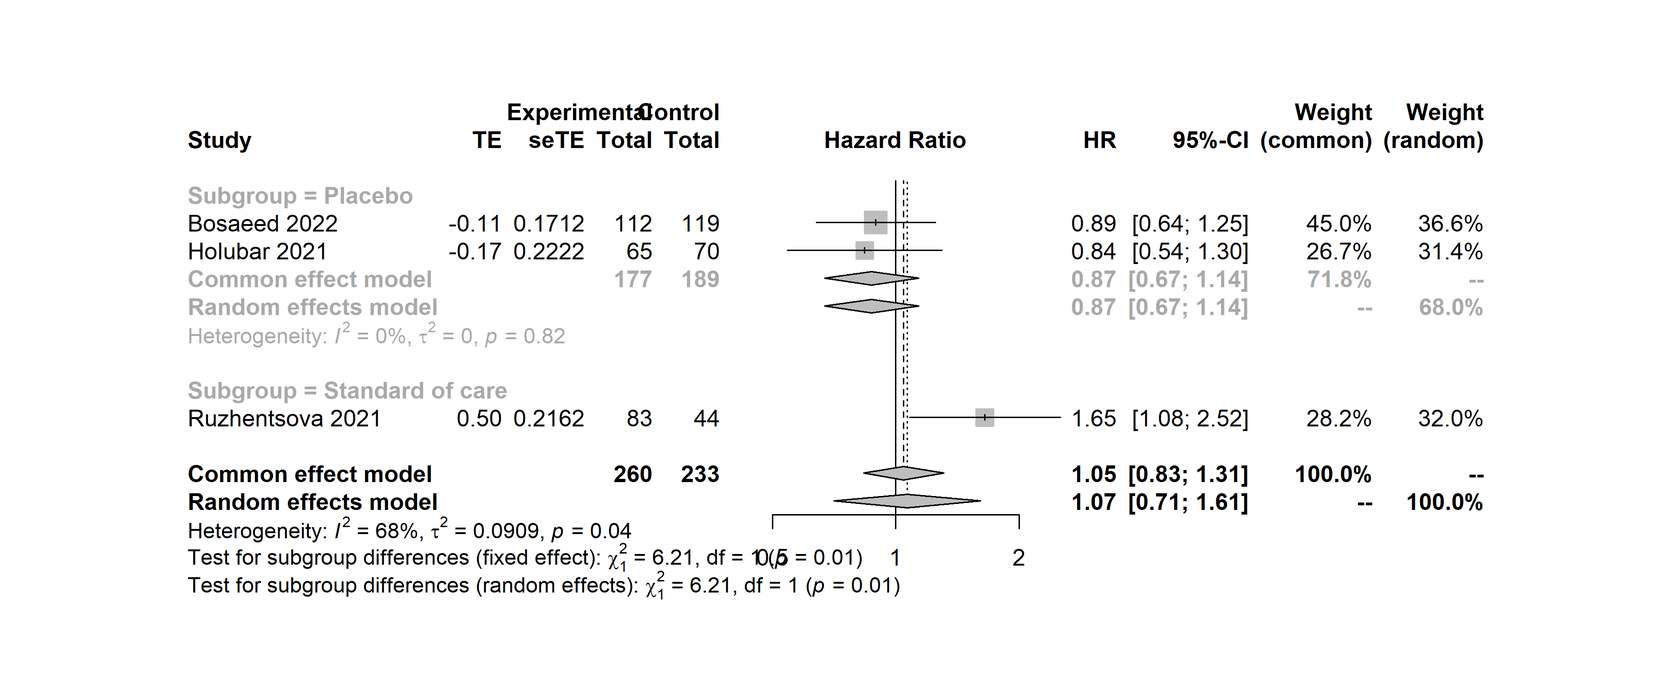
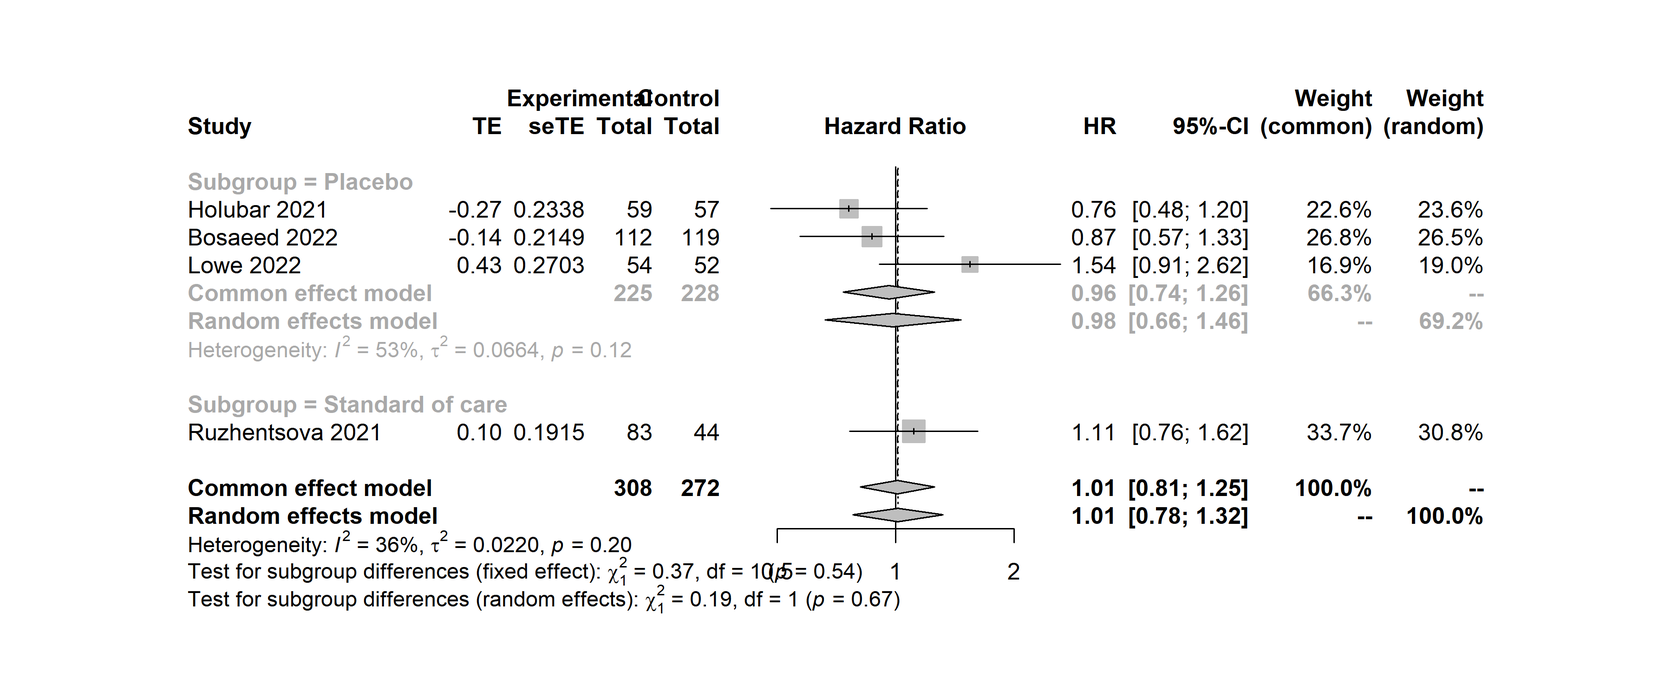
Kiegészítés Lowe 2022 tanulmánnyal.

diff --git a/README.md b/README.md
@@ -33,12 +33,6 @@ közte 2 megfelelővel, utóbbi 48 találatot, közte 1 relevánssal.
 
 A felkutatott tanulmányok:
 
--   Bosaeed 2022: Mohammad Bosaeed, Ahmad Alharbi, Ebrahim Mahmoud, et
-    al. Efficacy of favipiravir in adults with mild COVID-19: a
-    randomized, double-blind, multicentre, placebo-controlled clinical
-    trial. Clin Microbiol Infect. 2022 Jan 11;S1198-743X(21)00734-5.
-    doi: 10.1016/j.cmi.2021.12.026.
-    [Link](https://www.clinicalmicrobiologyandinfection.com/article/S1198-743X(21)00734-5/fulltext).
 -   Holubar 2021: Marisa Holubar, Aruna Subramanian, Natasha Purington.
     Favipiravir for treatment of outpatients with asymptomatic or
     uncomplicated COVID-19: a double-blind randomized,
@@ -50,42 +44,61 @@ A felkutatott tanulmányok:
     patients with mild to moderate COVID-19. Am J Transl Res. 2021 Nov
     15;13(11):12575-12587. eCollection 2021.
     [Link](https://www.ncbi.nlm.nih.gov/pmc/articles/PMC8661194/).
+-   Bosaeed 2022: Mohammad Bosaeed, Ahmad Alharbi, Ebrahim Mahmoud, et
+    al. Efficacy of favipiravir in adults with mild COVID-19: a
+    randomized, double-blind, multicentre, placebo-controlled clinical
+    trial. Clin Microbiol Infect. 2022 Jan 11;S1198-743X(21)00734-5.
+    doi: 10.1016/j.cmi.2021.12.026.
+    [Link](https://www.clinicalmicrobiologyandinfection.com/article/S1198-743X(21)00734-5/fulltext).
+-   Lowe 2022: David M Lowe, Li-An K Brown, Kashfia Chowdhury, et
+    al. Favipiravir, lopinavir-ritonavir or combination therapy (FLARE):
+    a randomised, double blind, 2x2 factorial placebo-controlled trial
+    of early antiviral therapy in COVID-19. medRxiv. doi:
+    10.1101/2022.02.11.22270775.
+    [Link](https://www.medrxiv.org/content/10.1101/2022.02.11.22270775v1).
 
-Az utóbbi tanulmány egyszerre tartalmazott járó- és fekvőbetegeket, de
-szerencsére a számunkra kritikus eredményeket külön-külön is közölte,
-így felhasználható a mostani meta-analízisben.
+A Ruzhentsova 2021 tanulmány egyszerre tartalmazott járó- és
+fekvőbetegeket, de szerencsére a számunkra kritikus eredményeket
+külön-külön is közölte, így felhasználható a mostani meta-analízisben.
 
 ### Végpontok összevethetősége
 
 Az első kérdés, hogy a tanulmányok ugyanazt, vagy legalábbis kellően
 hasonló végpontot néztek-e.
 
-Ebben szerencsénk van: minden tanulmány pontosan ugyanazt a két
-végpontot nézte: a vírusürítés megszűnéséig eltelő időt (“time to viral
-clearence”) és a klinikai javulás bekövetkezéséig eltelő időt (“time to
-clinical improvement”).
+Ebben szerencsénk van: Lowe 2022 kivételével az összes tanulmány
+pontosan ugyanazt a két végpontot nézte: a vírusürítés megszűnéséig
+eltelő időt (“time to viral clearence”) és a klinikai javulás
+bekövetkezéséig eltelő időt (“time to clinical improvement”). Sajnos
+Lowe 2022 más, és ezekkel közös nevezőre nem hozható végpontot használt,
+viszont a mellékletben közölt adatok lehetővé teszik a vírusürítés
+megszűnéséig eltelő idő visszaszámolását, így abban az elemzésben
+felhasználható ez a tanulmány is.
 
 A konkrét definíciók is meglehetősen hasonlóak voltak. A vírusürítés
 megszűnéséig eltelő idő:
 
 | Tanulmány        | Definíció                                                                                                       |
 |------------------|-----------------------------------------------------------------------------------------------------------------|
-| Bosaeed 2022     | conversion of SARS-CoV-2 RT-PCR results from positive to negative within 15 days as described in procedures     |
 | Holubar 2021     | first of two consecutive negative nasal RT-PCRs                                                                 |
 | Ruzhentsova 2021 | the absence of SARS-CoV-2 virus according to PCR in two consecutive swabs with an interval of at least 24 hours |
+| Bosaeed 2022     | conversion of SARS-CoV-2 RT-PCR results from positive to negative within 15 days as described in procedures     |
+| Lowe 2022        | undetectable viral load during the 7 day treatment; Ct values \>40 were considered undetectable                 |
 
 A klinikai javulás bekövetkezéséig eltelő idő is nagyon hasonló, a
 Ruzhentsova 2021 kivételével:
 
 | Tanulmány        | Definíció                                                                                                                                      |
 |------------------|------------------------------------------------------------------------------------------------------------------------------------------------|
-| Bosaeed 2022     | normalization of fever and respiratory symptoms and relief of cough (or other relevant symptoms at enrolment) maintained for at least 72 hours |
 | Holubar 2021     | first of two consecutive days without symptoms                                                                                                 |
 | Ruzhentsova 2021 | a reduction of patient clinical status on at least 1 score according to WHO 8-Category Ordinal Scale compared to screening                     |
+| Bosaeed 2022     | normalization of fever and respiratory symptoms and relief of cough (or other relevant symptoms at enrolment) maintained for at least 72 hours |
 
-Módszertani szempontból is szerencsénk van: minden tanulmány eltelt
-időként kezelte mindkét végpontot, és mindegyik hazárdhányadossal (HR)
-mérte le a kezelés hatását.
+Módszertani szempontból is szerencsénk van: Lowe 2022 kivételével minden
+tanulmány eltelt időként kezelte mindkét végpontot, és mindegyik
+hazárdhányadossal (HR) mérte le a kezelés hatását. A Lowe 2022
+tanulmányból kiszedhető adatok is lehetővé teszik HR számítását a
+vírusürítés megszűnéséig eltelő időre vonatkozóan.
 
 Ebből a szempontból tehát lehetséges meta-analízis készítése.
 
@@ -99,48 +112,74 @@ variáns).
 
 E szempontokról a következőek mondhatóak el:
 
-|            | Bosaeed 2022                                                                                                                                                                                                                                                                                 | Holubar 2021                                                                                                                                 | Ruzhentsova 2021                                                                                                                                                                                                                                                                  |
-|------------|----------------------------------------------------------------------------------------------------------------------------------------------------------------------------------------------------------------------------------------------------------------------------------------------|----------------------------------------------------------------------------------------------------------------------------------------------|-----------------------------------------------------------------------------------------------------------------------------------------------------------------------------------------------------------------------------------------------------------------------------------|
-| Elrendezés | Randomizált, kettős vak                                                                                                                                                                                                                                                                      | Randomizált, kettős vak                                                                                                                      | Randomizált, open label                                                                                                                                                                                                                                                           |
-| Dózis      | 1800 mg twice daily as a loading dose on day 1 followed by 800 mg twice daily as a maintenance dose for a total duration of 5 to 7 days of therapy                                                                                                                                           | 1800 mg BID on Day 1, then 800 mg BID on days 2-10                                                                                           | a loading dose of 1800 mg BID on Day 1, followed by 800 mg BID on Days 2-10                                                                                                                                                                                                       |
-| Dátum      | Between July 23, 2020 and August 4, 2021                                                                                                                                                                                                                                                     | From July 8, 2020 through March 23, 2021                                                                                                     | Between May 23, 2020 and June 30, 2020                                                                                                                                                                                                                                            |
-| Helyszín   | seven community medical<br>centres and ambulatory care centres in Saudi Arabia                                                                                                                                                                                                               | Stanford Healthcare, California                                                                                                              | Oroszország                                                                                                                                                                                                                                                                       |
-| Betegek    | mild COVID-19 (confirmed by positive PCR test for SARS-CoV-2); they were enrolled within 5 days of disease onset. Mild COVID-19 was defined as mild illness (with or without respiratory symptoms) with oxygen saturation \>94% on room air and management at home with appropriate therapy. | asymptomatic or symptomatic adults without respiratory distress who had a positive SARS-CoV-2 RT-PCR collected within 72 hours of enrollment | had a diagnosis of mild to moderate COVID-19 without respiratory failure; with symptom manifestation no more than 6 days before the randomization; with SARS-CoV-2 confirmed by PCR of oro- or nasopharyngeal swabs, and had received no previous antiviral therapy for COVID-19. |
+|            | Holubar 2021                                                                                                                                 | Ruzhentsova 2021                                                                                                                                                                                                                                                                  | Bosaeed 2022                                                                                                                                                                                                                                                                                 | Lowe 2022                                                                                                                                                                                                                                                                                                                                                                                                                              |
+|------------|----------------------------------------------------------------------------------------------------------------------------------------------|-----------------------------------------------------------------------------------------------------------------------------------------------------------------------------------------------------------------------------------------------------------------------------------|----------------------------------------------------------------------------------------------------------------------------------------------------------------------------------------------------------------------------------------------------------------------------------------------|----------------------------------------------------------------------------------------------------------------------------------------------------------------------------------------------------------------------------------------------------------------------------------------------------------------------------------------------------------------------------------------------------------------------------------------|
+| Elrendezés | Randomizált, kettős vak                                                                                                                      | Randomizált, open label                                                                                                                                                                                                                                                           | Randomizált, kettős vak                                                                                                                                                                                                                                                                      | Randomizált, kettős vak (2x2-es faktoriális, csak a favipiravir+placebo vs placebo-t használjuk most)                                                                                                                                                                                                                                                                                                                                  |
+| Dózis      | 1800 mg BID on Day 1, then 800 mg BID on days 2-10                                                                                           | a loading dose of 1800 mg BID on Day 1, followed by 800 mg BID on Days 2-10                                                                                                                                                                                                       | 1800 mg twice daily as a loading dose on day 1 followed by 800 mg twice daily as a maintenance dose for a total duration of 5 to 7 days of therapy                                                                                                                                           | 1800 mg twice daily on Day 1, followed by 400 mg four times daily from Day 2 to Day 7                                                                                                                                                                                                                                                                                                                                                  |
+| Dátum      | From July 8, 2020 through March 23, 2021                                                                                                     | Between May 23, 2020 and June 30, 2020                                                                                                                                                                                                                                            | Between July 23, 2020 and August 4, 2021                                                                                                                                                                                                                                                     | Between 6 October 2020 and 4 November 2021                                                                                                                                                                                                                                                                                                                                                                                             |
+| Helyszín   | Stanford Healthcare, California                                                                                                              | Oroszország                                                                                                                                                                                                                                                                       | seven community medical centres and ambulatory care centres in Saudi Arabia                                                                                                                                                                                                                  | Participants were recruited at two sites: Royal Free Hospital and University College London Hospital, both in London, UK                                                                                                                                                                                                                                                                                                               |
+| Betegek    | asymptomatic or symptomatic adults without respiratory distress who had a positive SARS-CoV-2 RT-PCR collected within 72 hours of enrollment | had a diagnosis of mild to moderate COVID-19 without respiratory failure; with symptom manifestation no more than 6 days before the randomization; with SARS-CoV-2 confirmed by PCR of oro- or nasopharyngeal swabs, and had received no previous antiviral therapy for COVID-19. | mild COVID-19 (confirmed by positive PCR test for SARS-CoV-2); they were enrolled within 5 days of disease onset. Mild COVID-19 was defined as mild illness (with or without respiratory symptoms) with oxygen saturation \>94% on room air and management at home with appropriate therapy. | Participants aged between 18 and 70 years who had recently (within the last 5 days) developed symptoms of COVID-19, who had tested positive for SARS-CoV-2 by PCR and were within 7 days of symptom onset, or who were asymptomatic but had tested positive by PCR within the previous 48 hours, were eligible for the trial. Participants were ineligible if they \[…\] were being treated as a hospital inpatient for any condition. |
 
 Látszik, hogy nagyjából jó a megfelelés; egy kivétellel, ami semmiképp
 nem hanyagolható el: Ruzhentsova 2021 [aktív
 kontrollt](https://tamas-ferenci.github.io/FerenciTamas_AKlinikaiGyogyszervizsgalatokAlapjai/a-kontroll%C3%A1l%C3%A1s-k%C3%A9rd%C3%A9sei.html#a-kontrollcsoport-megv%C3%A1laszt%C3%A1sa-akt%C3%ADv-kontroll)
-(standard ellátás) használt, míg a másik két tanulmány
+(standard ellátás) használt, míg a másik három tanulmány
 [placebo-kontrollos](https://tamas-ferenci.github.io/FerenciTamas_AKlinikaiGyogyszervizsgalatokAlapjai/a-kontroll%C3%A1l%C3%A1s-k%C3%A9rd%C3%A9sei.html#placeb%C3%B3hat%C3%A1s-kezeletlen-%C3%A9s-placebo-kontroll-a-kezel%C3%A9s-maszkol%C3%A1sa)
-volt. Ez mindenképp szükségessé tesz egy alcsoport-analízist.
+volt. (Pontosabban szólva Lowe 2022 egy másik gyógyszert is vizsgált,
+sőt, még annak a favipiravirral vett együttes hatását is, de most csak a
+favipiravirra vonatkozó adatokat fogjuk használni abból a tanulmányból.)
+Ez mindenképp szükségessé tesz majd egy alcsoport-analízist.
 
 Nézzük az egyes betegcsoportok jellemzőit:
 
-|                                              | Bosaeed 2022 | Bosaeed 2022 | Holubar 2021 | Holubar 2021 | Ruzhentsova 2021 | Ruzhentsova 2021 |
-|----------------------------------------------|--------------|--------------|--------------|--------------|------------------|------------------|
-|                                              | Favipiravir  | Placebo      | Favipiravir  | Placebo      | Favipiravir      | Standard of care |
-| Nő                                           | 40 (35.7)    | 36 (30.2)    | 28 (47.5)    | 29 (50.9)    | 63 (56.2%)       | 26 (46.4%)       |
-| Életkor                                      | 37 (31.5-45) | 36 (32-4)    | 42.9 (12.3)  | 43.4 (12.8)  | 41.7 (10.6)      | 41.7 (10.6)      |
-| Time from symptoms onset to<br>randomization | 3 (2-4)      | 3 (2-4)      | 5 \[3-7\]    | 5 \[4-6\]    | 3.5 (1.4)        | 3.6 (1.4)        |
-| Hypertonia                                   | 8 (5)        | 6 (7)        | 5 (8.5)      | 5 (8.8)      | ?                | ?                |
-| Diabetes                                     | 15 (13.4)    | 10 (8.4)     | 7 (11.9)     | 3 (5.3)      | ?                | ?                |
-| Chr. tüdő                                    | 1 (0.8)      | 1 (0.8)      | 2 (3.4)      | 3 (5.3)      | ?                | ?                |
+|                                              | Holubar 2021 | Holubar 2021 | Ruzhentsova 2021 | Ruzhentsova 2021 | Bosaeed 2022 | Bosaeed 2022 | Lowe 2022            | Lowe 2022            |
+|----------------------------------------------|--------------|--------------|------------------|------------------|--------------|--------------|----------------------|----------------------|
+|                                              | Favipiravir  | Placebo      | Favipiravir      | Standard of care | Favipiravir  | Placebo      | Favipiravir          | Placebo              |
+| Betegszám                                    | 59           | 57           | 83               | 44               | 112          | 119          | 59                   | 60                   |
+| Nő                                           | 28 (47.5)    | 29 (50.9)    | 63 (56.2%)       | 26 (46.4%)       | 40 (35.7)    | 36 (30.2)    | 27 (45.8)            | 29 (48.3)            |
+| Életkor                                      | 42.9 (12.3)  | 43.4 (12.8)  | 41.7 (10.6)      | 41.7 (10.6)      | 37 (31.5-45) | 36 (32-4)    | 40.3 (12.1)          | 40.6 (12.2)          |
+| Time from symptoms onset to<br>randomization | 5 \[3-7\]    | 5 \[4-6\]    | 3.5 (1.4)        | 3.6 (1.4)        | 3 (2-4)      | 3 (2-4)      | 39 (66.1) \<= 5 days | 37 (62.7) \<= 5 days |
+| Hypertonia                                   | 5 (8.5)      | 5 (8.8)      | ?                | ?                | 8 (5)        | 6 (7)        | ?                    | ?                    |
+| Diabetes                                     | 7 (11.9)     | 3 (5.3)      | ?                | ?                | 15 (13.4)    | 10 (8.4)     | ?                    | ?                    |
+| Chr. tüdő                                    | 2 (3.4)      | 3 (5.3)      | ?                | ?                | 1 (0.8)      | 1 (0.8)      | ?                    | ?                    |
 
 Látszik, hogy nagyjából elfogadható a hasonlóság.
 
 ### Adatok extrakciója
 
-A mostani elemzésben felhasznált konkrét számok, azok cikkbeli
-forrásával együtt:
+Lowe 2022 esetében a Supplementary Figure 4, illetve az alatta
+szerencsére közölt számszerű értékek lehetővé teszik HR számolását:
 
-| Tanulmány        | Végpont                      | URL                                                                                                                                        | Forrás    | HR    | CI alsó széle | CI felső széle | nT  | nC  |
-|------------------|------------------------------|--------------------------------------------------------------------------------------------------------------------------------------------|-----------|-------|---------------|----------------|-----|-----|
-| Bosaeed 2022     | Time to viral clearance      | <https://www.clinicalmicrobiologyandinfection.com/article/S1198-743X(21)00734-5/fulltext>                                                  | Figure 2  | 0,87  | 0,571         | 1,326          | 112 | 119 |
-| Bosaeed 2022     | Time to clinical improvement | <https://www.clinicalmicrobiologyandinfection.com/cms/10.1016/j.cmi.2021.12.026/attachment/b21e8fdc-a521-4d8c-a134-80620a0af4ef/mmc2.docx> | Figure S1 | 0,894 | 0,639         | 1,25           | 112 | 119 |
-| Holubar 2021     | Time to viral clearance      | <https://www.medrxiv.org/content/10.1101/2021.11.22.21266690v1.full.pdf>                                                                   | Table 2   | 0,76  | 0,48          | 1,2            | 59  | 57  |
-| Holubar 2021     | Time to clinical improvement | <https://www.medrxiv.org/content/10.1101/2021.11.22.21266690v1.full.pdf>                                                                   | Table 2   | 0,84  | 0,54          | 1,29           | 65  | 70  |
-| Ruzhentsova 2021 | Time to viral clearance      | <https://www.ncbi.nlm.nih.gov/pmc/articles/PMC8661194/pdf/ajtr0013-12575.pdf>                                                              | Table 2   | 1,11  | 0,76          | 1,61           | 83  | 44  |
-| Ruzhentsova 2021 | Time to clinical improvement | <https://www.ncbi.nlm.nih.gov/pmc/articles/PMC8661194/pdf/ajtr0013-12575.pdf>                                                              | Table 2   | 1,65  | 1,08          | 2,52           | 83  | 44  |
+``` r
+Lowe2022Data <- data.frame(Days = 1:7,
+                           Favipiravir = c(0, 8, 10, 15, 25, 26, 32),
+                           Placebo = c(0, 2, 4, 8, 14, 18, 24))
+
+Lowe2022Data <- rbind(
+  data.frame(Number = c(diff(Lowe2022Data$Favipiravir), 54-sum(diff(Lowe2022Data$Favipiravir))),
+             Day = c(2:7, 7), Event = c(rep(1, 6), 0), Arm = "Favipiravir"),
+  data.frame(Number = c(diff(Lowe2022Data$Placebo), 52-sum(diff(Lowe2022Data$Placebo))),
+             Day = c(2:7, 7), Event = c(rep(1, 6), 0), Arm = "Placebo"))
+
+Lowe2022Data <- Lowe2022Data[rep(1:nrow(Lowe2022Data), Lowe2022Data$Number), ]
+
+fit <- survival::coxph(survival::Surv(Day, Event) ~ Arm, data = Lowe2022Data)
+
+Lowe2022Data <- 1/exp(c(fit$coefficients, confint(fit)))
+```
+
+Ez alapján a mostani elemzésben felhasznált konkrét számok, azok
+cikkbeli forrásával együtt:
+
+| Tanulmány        | Végpont                      | URL                                                                                                                                        | Forrás              | HR    | CI alsó széle | CI felső széle | nT  | nC  |
+|------------------|------------------------------|--------------------------------------------------------------------------------------------------------------------------------------------|---------------------|-------|---------------|----------------|-----|-----|
+| Holubar 2021     | Time to viral clearance      | <https://www.medrxiv.org/content/10.1101/2021.11.22.21266690v1.full.pdf>                                                                   | Table 2             | 0,76  | 0,48          | 1,2            | 59  | 57  |
+| Holubar 2021     | Time to clinical improvement | <https://www.medrxiv.org/content/10.1101/2021.11.22.21266690v1.full.pdf>                                                                   | Table 2             | 0,84  | 0,54          | 1,29           | 65  | 70  |
+| Ruzhentsova 2021 | Time to viral clearance      | <https://www.ncbi.nlm.nih.gov/pmc/articles/PMC8661194/pdf/ajtr0013-12575.pdf>                                                              | Table 2             | 1,11  | 0,76          | 1,61           | 83  | 44  |
+| Ruzhentsova 2021 | Time to clinical improvement | <https://www.ncbi.nlm.nih.gov/pmc/articles/PMC8661194/pdf/ajtr0013-12575.pdf>                                                              | Table 2             | 1,65  | 1,08          | 2,52           | 83  | 44  |
+| Bosaeed 2022     | Time to viral clearance      | <https://www.clinicalmicrobiologyandinfection.com/article/S1198-743X(21)00734-5/fulltext>                                                  | Figure 2            | 0,87  | 0,571         | 1,326          | 112 | 119 |
+| Bosaeed 2022     | Time to clinical improvement | <https://www.clinicalmicrobiologyandinfection.com/cms/10.1016/j.cmi.2021.12.026/attachment/b21e8fdc-a521-4d8c-a134-80620a0af4ef/mmc2.docx> | Figure S1           | 0,894 | 0,639         | 1,25           | 112 | 119 |
+| Lowe 2022        | Time to viral clearance      | Lásd fenti számítás                                                                                                                        | Lásd fenti számítás | 1.54  | 0.91          | 2.62           | 54  | 52  |
 
 ## Módszertani és számítástechnikai részletek
 
@@ -158,18 +197,20 @@ az adatokat (a nyers adatokat külön is [elérhetővé
 tettem](https://raw.githubusercontent.com/tamas-ferenci/FavipiravirJarobetegMetaanalizis/main/FavipiravirOutpatientMeta.csv)):
 
 ``` r
-library(meta)
-
 RawData <- read.csv2("FavipiravirOutpatientMeta.csv")
+RawData <- rbind(RawData, data.frame(Study = "Lowe 2022", Outcome = "Time to viral clearance",
+                                     Subgroup = "Placebo", HR = Lowe2022Data[1],
+                                     CIlwr = Lowe2022Data[3], CIupr = Lowe2022Data[2],
+                                     nT = 54, nC = 52))
 ```
 
 Ezt követően elvégezhetjük mindkét végpontra a meta-analízist:
 
 ``` r
-mViral <- metagen(log(HR), lower = log(CIlwr), upper = log(CIupr), studlab = Study,
+mViral <- meta::metagen(log(HR), lower = log(CIlwr), upper = log(CIupr), studlab = Study,
               n.e = nT, n.c = nC, data = RawData[RawData$Outcome=="Time to viral clearance",],
               subgroup = Subgroup, sm = "HR")
-mClinical <- metagen(log(HR), lower = log(CIlwr), upper = log(CIupr), studlab = Study,
+mClinical <- meta::metagen(log(HR), lower = log(CIlwr), upper = log(CIupr), studlab = Study,
               n.e = nT, n.c = nC,
               data = RawData[RawData$Outcome=="Time to clinical improvement",],
               subgroup = Subgroup, sm = "HR")
@@ -185,29 +226,30 @@ A vírusürítés megszűnéséig eltelő időre vonatkozó meta-analízis
 eredménye:
 
 ``` r
-forest(mViral)
+meta::forest(mViral)
 ```
 
-![](README_files/figure-gfm/unnamed-chunk-3-1.png)<!-- -->
+![](README_files/figure-gfm/unnamed-chunk-4-1.png)<!-- -->
 
 A klinikai javulás bekövetkezéséig eltelő időre vonatkozó meta-analízis
 eredménye:
 
 ``` r
-forest(mClinical)
+meta::forest(mClinical)
 ```
 
-![](README_files/figure-gfm/unnamed-chunk-4-1.png)<!-- -->
+![](README_files/figure-gfm/unnamed-chunk-5-1.png)<!-- -->
 
 ## Diszkusszió
 
 A vírusürítés megszűnéséig eltelő idő tekintetében nincs lényeges
 heterogenitás, és a két alcsoport sem tér el egymástól szignifikánsan.
-Az eredmény szerint a favipiravir ront a helyzeten (HR = 0,93), de nem
-szignifikáns mértékben (95% CI: 0,73–1,18). A klinikai javulás
-bekövetkezéséig eltelő idő esetében a két alcsoport már inkább eltér; az
-összesített eredmény szerint a favipiravir hat ugyan (HR = 1,07), ám nem
-szignifikáns mértékben (95% CI: 0,71–1,61).
+Az eredmény szerint a favipiravir nem változtat érdemben a helyzeten (HR
+= 1,01), és a hatás természetesen nem is szignifikáns (95% CI:
+0,78–1,32). A klinikai javulás bekövetkezéséig eltelő idő esetében a két
+alcsoport már inkább eltér; az összesített eredmény szerint a
+favipiravir hat ugyan (HR = 1,07), ám nem szignifikáns mértékben (95%
+CI: 0,71–1,61).
 
 *A favipiravirnak egyetlen végpontra sem sikerült szignifikáns hatását
 igazolni.*
